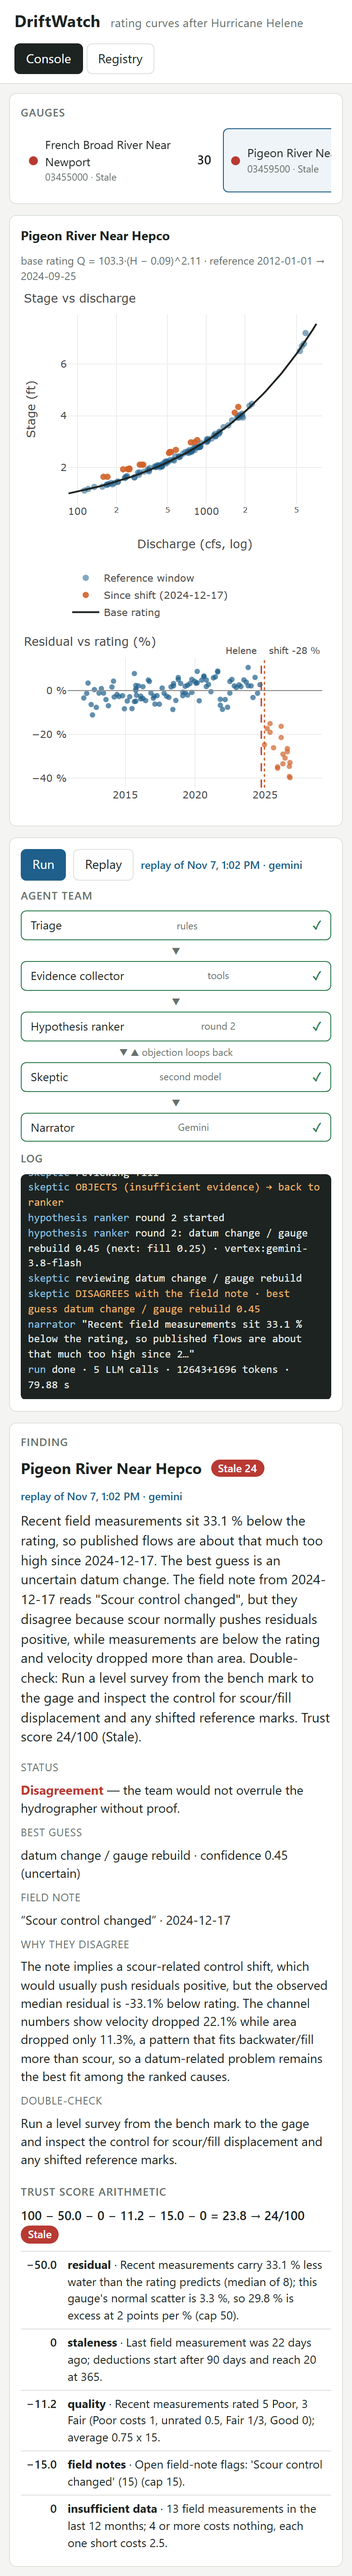
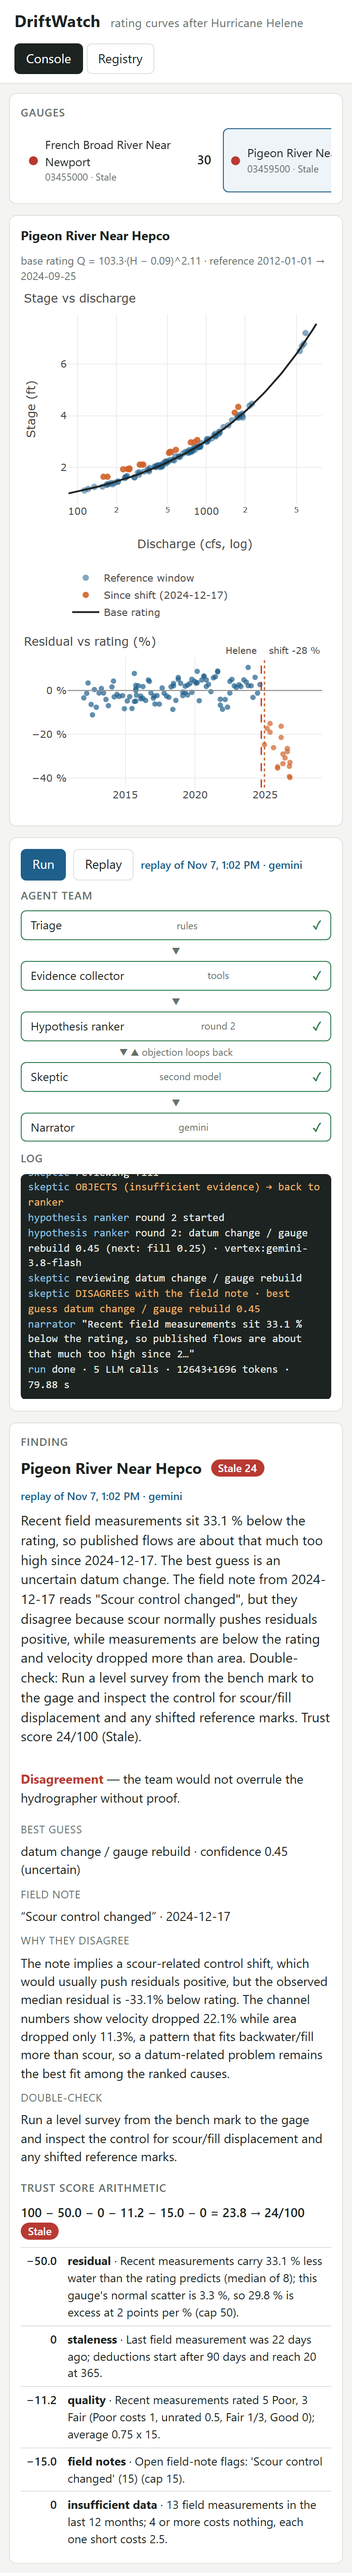
m3 review fixes: Disagreement as exactly four rows, LLM labels from the run's mode, error-path tests, plan route list

diff --git a/driftwatch/api/console.html b/driftwatch/api/console.html
@@ -154,11 +154,11 @@ table.score td.pts { text-align: right; font-variant-numeric: tabular-nums; whit
       <div class="arrow">▼</div>
       <div class="node" data-node="evidence_collector">Evidence collector <small>tools</small></div>
       <div class="arrow">▼</div>
-      <div class="node" data-node="hypothesis_ranker">Hypothesis ranker <small id="rank-round">Gemini</small></div>
+      <div class="node" data-node="hypothesis_ranker">Hypothesis ranker <small id="rank-round">LLM</small></div>
       <div class="arrow">▼ ▲ objection loops back</div>
       <div class="node" data-node="skeptic">Skeptic <small>second model</small></div>
       <div class="arrow">▼</div>
-      <div class="node" data-node="narrator">Narrator <small>Gemini</small></div>
+      <div class="node" data-node="narrator">Narrator <small class="llm-name">LLM</small></div>
     </div>
     <h2>Log</h2>
     <div id="log"></div>
@@ -332,7 +332,7 @@ const vlabel = (x, text, side) => ({ x, xref: "x", yref: "paper", y: 1, yanchor:
 /* ---------- agent graph + log ---------- */
 function resetGraph() {
   document.querySelectorAll(".node").forEach((n) => n.className = "node");
-  $("rank-round").textContent = "Gemini";
+  $("rank-round").textContent = "LLM";
 }
 function setNode(node, cls) {
   const el = document.querySelector(`.node[data-node="${node}"]`);
@@ -422,6 +422,8 @@ async function stream(path, method, label) {
     await streamSSE(path, method, (ev, data) => {
       if (ev === "meta") {
         meta = data;
+        document.querySelectorAll(".llm-name").forEach((n) => n.textContent = data.llm);
+        $("rank-round").textContent = data.llm;
         const l = data.replay ? `replay of ${fmtTime(data.started_at)} · ${data.llm}` : `live run · ${data.llm}`;
         $("run-label").textContent = l; $("run-label").className = "label" + (data.replay ? " replay" : "");
       } else if (ev === "trace") onTrace(data);
@@ -453,9 +455,8 @@ function renderCard(f, label) {
     <dd><span class="status corroborated">None needed.</span> The rating still fits; triage sent this gauge straight to the narrator.</dd></dl>`;
   else if (f.cause_status === "disagreement") {
     const d = f.disagreement;
-    causeHTML = `<dl class="rows">
-      <dt>Status</dt><dd><span class="status disagreement">Disagreement</span> — the team would not overrule the hydrographer without proof.</dd>
-      <dt>Best guess</dt><dd>${esc(cause(d.best_guess.cause))} · confidence ${num(d.best_guess.confidence, 2)} (uncertain)</dd>
+    causeHTML = `<p><span class="status disagreement">Disagreement</span> — the team would not overrule the hydrographer without proof.</p>
+      <dl class="rows"><dt>Best guess</dt><dd>${esc(cause(d.best_guess.cause))} · confidence ${num(d.best_guess.confidence, 2)} (uncertain)</dd>
       <dt>Field note</dt><dd>“${esc(d.field_note.note)}” · ${esc(d.field_note.date)}</dd>
       <dt>Why they disagree</dt><dd>${esc(d.why_they_disagree)}</dd>
       <dt>Double-check</dt><dd>${esc(d.recommended_check)}</dd></dl>`;

diff --git a/tests/test_api.py b/tests/test_api.py
@@ -128,3 +128,9 @@ def test_run_streams_fallback_to_completion(client, tmp_path, monkeypatch):
 def test_console_served(client):
     r = client.get("/")
     assert r.status_code == 200 and "DriftWatch" in r.text
+
+
+def test_error_paths(client):
+    assert client.post("/run/99999999").status_code == 404
+    assert client.get("/replay/not-a-trace").status_code == 400
+    assert client.get("/replay/99999999").status_code == 404

diff --git a/docs/plan.md b/docs/plan.md
@@ -56,7 +56,7 @@ driftwatch/
   modules/rating_curve/   usgs.py (fetch+snapshot) · pairing.py · rating.py · segmentation.py · causes.py
   modules/specs/*.yaml    7 specified modules (four slots each) → registry
   agents/      graph.py · tools.py · prompts/ · fallbacks.py · trace.py
-  api/         FastAPI: GET /gauges · GET /report/{site} · POST /run/{site} (SSE) · GET /trace/{id} · static console.html
+  api/         FastAPI: GET /gauges · GET /report/{site} · POST /run/{site} (SSE) · GET /trace/{id} · GET /replay/{id} (SSE, 0.6 s pace) · GET /registry · console at / · static console.html
 data/snapshot/  committed JSON per site
 evals/          cases.yaml · run_evals.py
 informer-app/   (Sat) front end + server/ + migrations/ + informer.yaml
